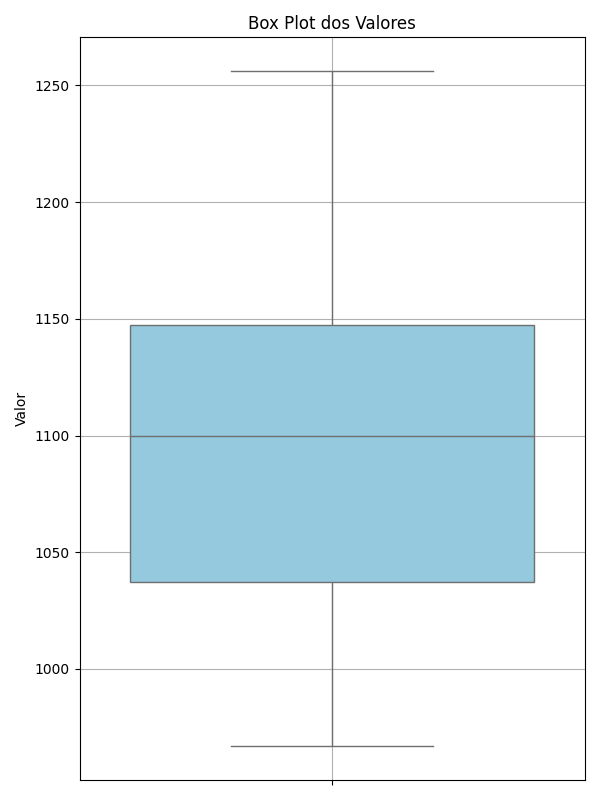
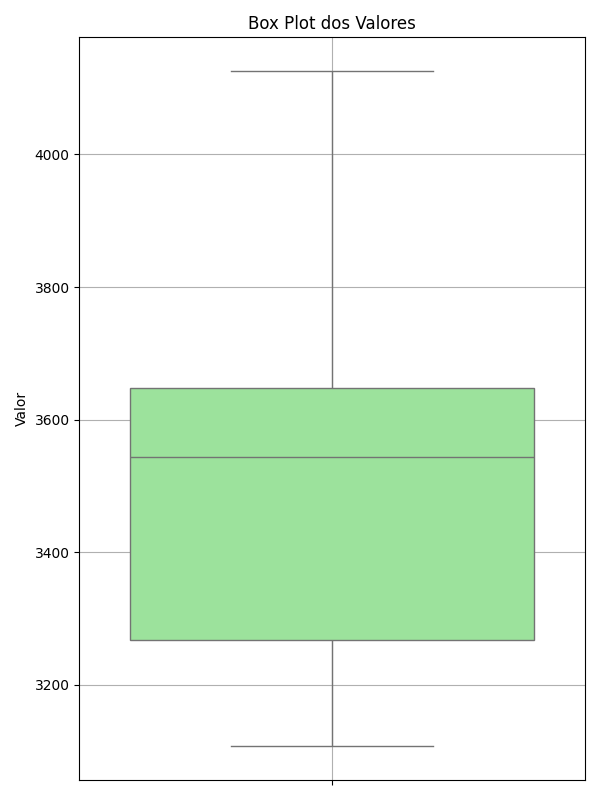
Add Requirements

Changed region(s): [[0.21, 0.4062, 0.9, 0.8125], [0.06, 0.0625, 0.15, 0.9688], [0.06, 0.6875, 0.09, 0.7188]]

diff --git a/src/box.py b/src/box.py
@@ -5,9 +5,9 @@ import os
 
 # Substitua esta lista pelos seus dados
 dados = [
-    1115.7677, 1167.79715, 1033.12778, 1041.50967, 966.84937,
-    1002.80573, 1099.78822, 1219.93792, 1127.10463, 1120.65313,
-    1098.29805, 1256.08909, 1094.15391, 1006.35532, 1196.33049
+    3259.0926, 3409.0904, 3840.652, 3997.495, 4125.8268,
+    3275.2636, 3639.0954, 3657.5272, 3129.9444, 3106.7712,
+    3562.9818, 3543.0742, 3562.9504, 3316.9628, 3251.6508
 ]
 
 # Criar DataFrame
@@ -43,7 +43,7 @@ print(tabela.to_string(index=False))
 
 # Criar box plot
 plt.figure(figsize=(6, 8))
-sns.boxplot(y=df["Valores"], color="skyblue")
+sns.boxplot(y=df["Valores"], color="lightgreen")
 plt.title("Box Plot dos Valores")
 plt.ylabel("Valor")
 plt.grid(True)
